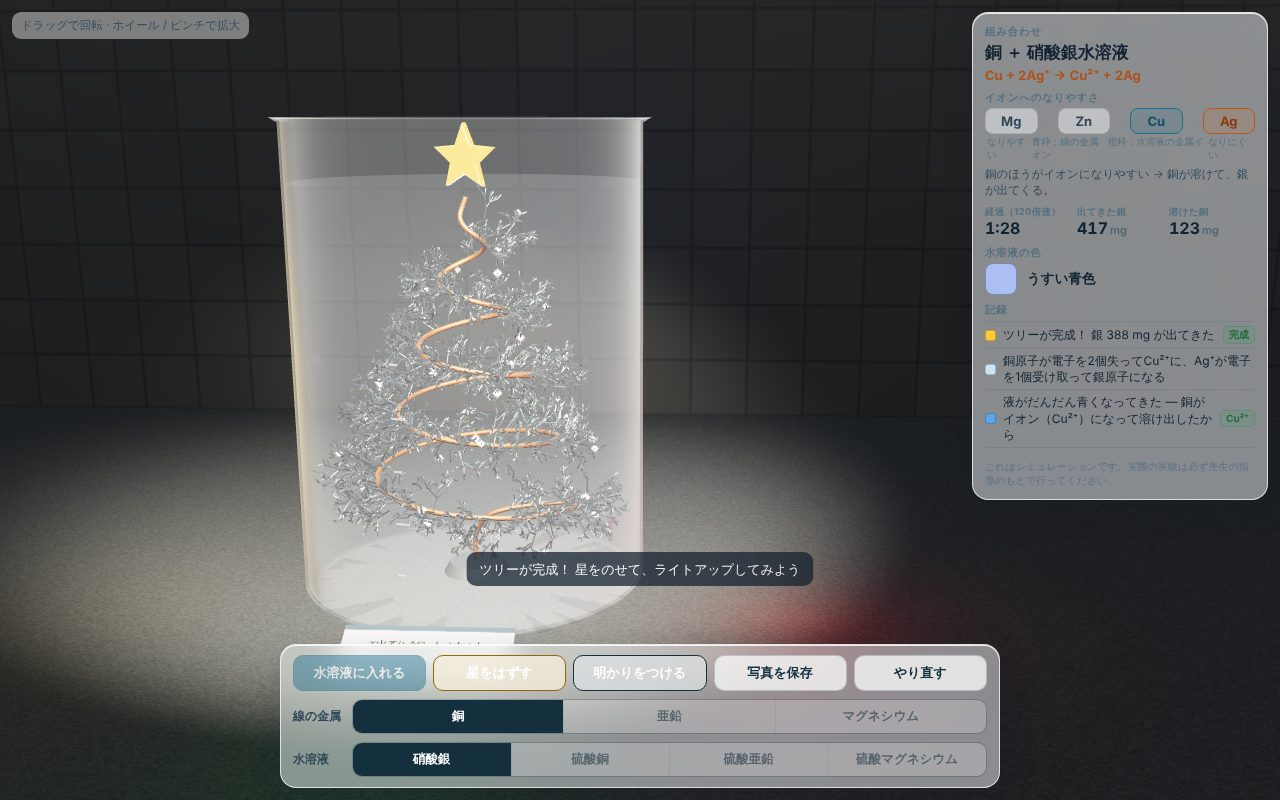
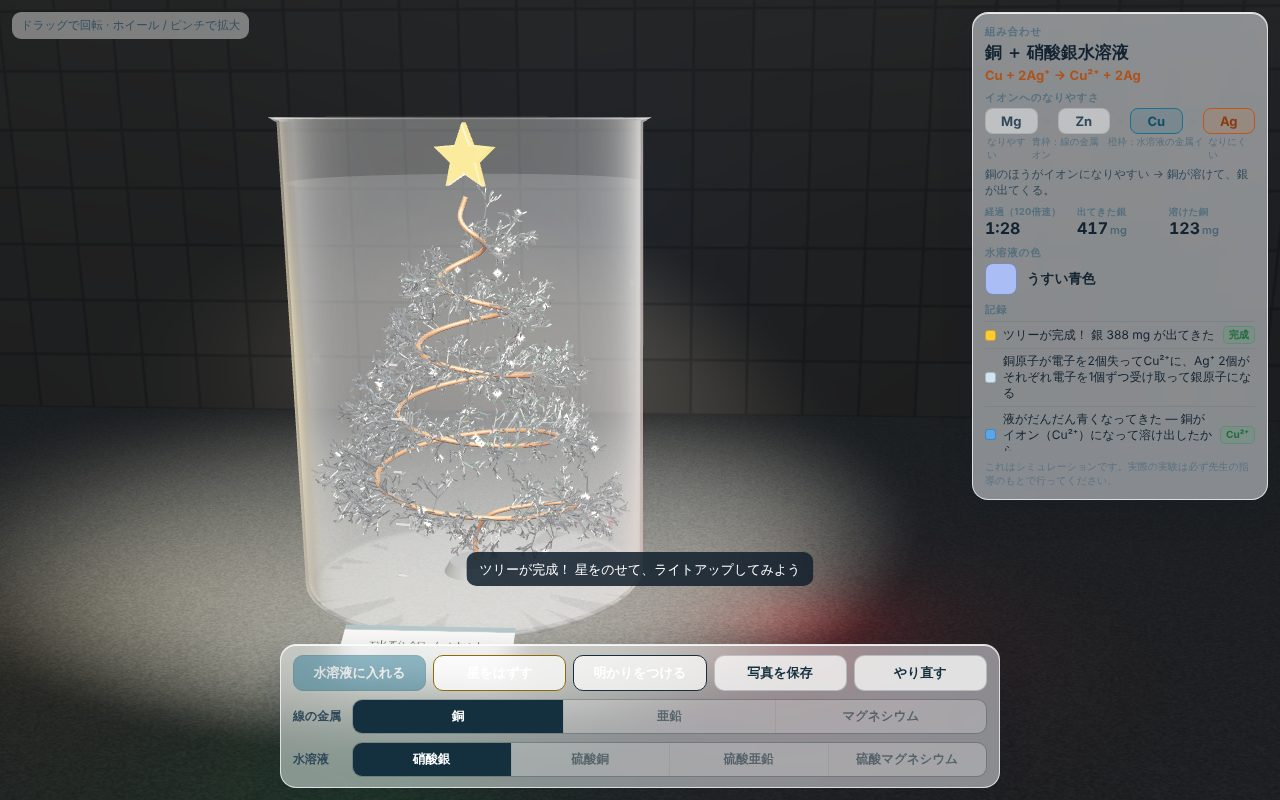
化学のクリスマスツリー：G3監修の指摘に対応
Claude-Session: https://claude.ai/code/session_01MKXMGBMQ75GPhwpfoT5RAP

diff --git a/apps/metal-tree-3d/index.html b/apps/metal-tree-3d/index.html
@@ -367,7 +367,7 @@ const BLOBS = [];
     }
   });
 }
-const blobMat = new THREE.MeshStandardMaterial({ color: 0x7a3a22, metalness: 0.45, roughness: 0.85 });
+const blobMat = new THREE.MeshStandardMaterial({ color: 0x6a311d, metalness: 0.45, roughness: 0.85 });
 const blobs = new THREE.InstancedMesh(new THREE.IcosahedronGeometry(1, 1), blobMat, BLOBS.length); blobs.count = 0; blobs.castShadow = true; treeG.add(blobs);
 // star
 const starShape = new THREE.Shape();
@@ -434,11 +434,12 @@ function sim(dt) {
     if (eq && !S.flags.e && S.simT > 900) {
       S.flags.e = true;
       const zs = METAL[S.sol].z;
-      logPush(`${METAL[S.wire].name}原子が電子を2個失って${METAL[S.wire].ion}に、${METAL[S.sol].ion}が電子を${zs}個受け取って${METAL[S.sol].name}原子になる`, '', '#cfe6f2');
+      const gain = zs === 1 ? `${METAL[S.sol].ion} 2個がそれぞれ電子を1個ずつ受け取って` : `${METAL[S.sol].ion}が電子を2個受け取って`;
+      logPush(`${METAL[S.wire].name}原子が電子を2個失って${METAL[S.wire].ion}に、${gain}${METAL[S.sol].name}原子になる`, '', '#cfe6f2');
     }
     if (eq && S.sol === 'Ag' && S.wire === 'Cu' && !S.flags.blue && conv() > 0.25) { S.flags.blue = true; logPush('液がだんだん青くなってきた — 銅がイオン（Cu²⁺）になって溶け出したから', 'Cu²⁺', '#5aa6e6'); }
     if (eq && S.sol === 'Cu' && !S.flags.fade && conv() > 0.5) { S.flags.fade = true; logPush('液の青色がうすくなってきた — 青い Cu²⁺ が減って銅になったから', 'Cu²⁺', '#9cc6e8'); }
-    if (eq && S.wire === 'Mg' && !S.flags.h2 && S.simT > 600) { S.flags.h2 = true; logPush('マグネシウムは水とも少し反応して、水素の泡も出ている', 'H₂', '#ffffff'); }
+    if (S.wire === 'Mg' && !S.flags.h2 && S.simT > 600) { S.flags.h2 = true; logPush(eq ? 'マグネシウムは水溶液中の水とも反応して、水素の泡が出る' : 'マグネシウムが水とわずかに反応して、小さな泡が少し出る（金属樹はできない）', 'H₂', '#ffffff'); }
     if (eq && !S.flags.done && conv() > 0.9) { S.flags.done = true; logPush(`ツリーが完成！ ${METAL[S.sol].name} ${Math.round(deposit())} mg が出てきた`, '完成', '#ffcc33'); toast('ツリーが完成！ 星をのせて、ライトアップしてみよう'); }
   }
   S.light += ((S.lightOn ? 1 : 0) - S.light) * (1 - Math.exp(-dt * 3));
@@ -477,7 +478,7 @@ function visuals(dt) {
         dummy.scale.set(wide * s.w, s.L * g * lenK, thin * s.w); dummy.updateMatrix();
         needles.setMatrixAt(n++, dummy.matrix);
       }
-      depMat.color.set(kind === 'Ag' ? (S.wire === 'Cu' ? 0xf2f5f7 : 0xc9cdd1) : 0x8a9096);
+      depMat.color.set(kind === 'Ag' ? (S.wire === 'Cu' ? 0xf2f5f7 : 0x9a9fa4) : 0x6c7176);
       depMat.roughness = kind === 'Ag' ? 0.14 : 0.45;
     }
     if (kind === 'Cu') {
@@ -504,7 +505,7 @@ function visuals(dt) {
   wireMat.color.set(WIRE_COL[S.wire]);
   // magnesium bubbles
   let used = 0;
-  const rate = eq && S.wire === 'Mg' && S.drop >= 1 ? 30 * (0.3 + 0.7 * (S.ion / ION0)) : 0;
+  const rate = S.wire === 'Mg' && S.drop >= 1 ? (eq ? 40 * (0.3 + 0.7 * (S.ion / ION0)) : 3) : 0;
   S.bAcc = Math.min(3, (S.bAcc || 0) + rate * dt);
   for (const b of bub) {
     if (b.on) { b.y += b.v * dt; if (b.y > LIQ - 0.1) b.on = false; }
@@ -579,7 +580,7 @@ function insert() {
   if (S.inBeaker) return;
   S.inBeaker = true;
   logPush(`${WIRE_NAME[S.wire]}のツリーを${SOLN[S.sol]}に入れた`, '', '#7fb7d6');
-  if (S.sol === 'Ag' && !S.flags.agNote) { S.flags.agNote = true; logPush('※ 実際の硝酸銀は皮膚につくと黒くなる薬品。先生が扱います', '', '#c8d0d6'); }
+  if (S.sol === 'Ag' && !S.flags.agNote) { S.flags.agNote = true; logPush('※ 実際の硝酸銀は皮膚につくと黒くなり、目に入ると危険な薬品。先生が扱います', '', '#c8d0d6'); }
   updateButtons();
 }
 function setWire(w) { if (S.inBeaker || !(w in WIRE_NAME)) return; S.wire = w; lastP = -1; drawCard(); updateButtons(); hudDirty = true; }

diff --git a/company/reviews/metal-tree-3d.md b/company/reviews/metal-tree-3d.md
@@ -39,3 +39,27 @@
 - 既存作品と重複なし ✔
 
 **G1 判定：PASS**
+
+## G2 品質保証（`node tools/qa.mjs apps/metal-tree-3d`）
+- 1回目：31/32（スマホでボタン5つが横にはみ出す）→ スマホでは2段に折り返すよう修正
+- **最終：32/32 PASS**（銀樹の成長、組み合わせの固定、銀：銅＝3.39、銀 431 mg、液が青くなる、イオンの式、写真の生成、反応しない組み合わせ、同じ金属、亜鉛＋硫酸銅で銅が出て青がうすくなる、マグネシウムの泡）
+- 目視確認で修正
+  - 最初はツリーが画面の外にあった → 実験台の上に置き、持ち上げてビーカーに沈める動きにした
+  - 3D の液が青く見えない → 青を濃く
+  - ライトアップが暗くならない・キラキラが見えない・液が白く光る → 照明・環境光を落とし、キラキラを強く、液を薄く
+  - 銅の析出物がオレンジのポップコーン状 → 暗い赤褐色の細かい粒に
+
+## G3 独立化学監修（サブエージェント）
+| 区分 | 指摘 | 対応 |
+|---|---|---|
+| 重大 | なし | — |
+| 軽微 | マグネシウムの泡は「少し」ではない／硫酸マグネシウムでは説明と食い違う | 「水溶液中の水とも反応して、水素の泡が出る」に修正。硫酸マグネシウムでは小さな泡を少しだけ出し、「金属樹はできない」と表示 |
+| 軽微 | 速さを電位差で決めるモデル | **演出上の仮定**として記録（下記）。画面には「差が大きいほど速い」とは書かない |
+| 軽微 | 電子の受け渡しで Ag⁺ の係数 2 が伝わらない | 「Ag⁺ 2個がそれぞれ電子を1個ずつ受け取って」に修正 |
+| 軽微 | 硝酸銀の注意に「目に入ると危険」 | 追加 |
+| 軽微 | 亜鉛・マグネシウムから出る金属はもう少し暗い | 亜鉛の析出物と、亜鉛・マグネシウムから出る銀を暗く、銅もやや暗く |
+
+**演出上の仮定**：反応の速さ k ∝ √ΔE は見た目のテンポのための仮定。実際の速さは表面の状態・拡散・濃度で決まる。
+
+正しいと確認された点：全組み合わせのイオンの式（原子数・電荷）、反応する／しないの判定、標準電極電位とモル質量、析出量と溶解量（銀：銅＝3.4）、液の色の変化（銅＋硝酸銀はうすい青止まり、硫酸銅は退色）、イオンへのなりやすさの用語、析出物の見た目、安全面。
+**G3 判定：PASS（全指摘に対応済み）**

diff --git a/company/backlog.md b/company/backlog.md
@@ -15,7 +15,7 @@
 |---|---|---|---|---|---|
 | 1 | baking-soda-decomposition-3d | 炭酸水素ナトリウムの熱分解 | 中2 | 口を上げると水が逆流して試験管が割れる／火を先に消すと石灰水が逆流 | **公開設定待ち（Pages）** |
 | 2 | water-electrolysis-3d | 水の電気分解（ホフマン型） | 中2 | 2：1でたまる・マッチで「ポン」／純粋な水では流れない・活栓開けっぱなし・つなぎ方逆 | **社長却下（2026-11-23）— 面白さが足りない。公開しない** |
-| 3 | metal-tree-3d | 化学のクリスマスツリー（金属樹） | 中3 | 銀の結晶がツリーを覆い液が青くなる／育たない組み合わせ／星・ライトアップ・写真保存 | **G1・G2 PASS／G3 監修中** |
+| 3 | metal-tree-3d | 化学のクリスマスツリー（金属樹） | 中3 | 銀の結晶がツリーを覆い液が青くなる／育たない組み合わせ／星・ライトアップ・写真保存 | **G1〜G3 PASS／撮影中** |
 
 ## 候補（優先順）
 2. 酸化銅の還元（炭素）— 黒→赤、ピンチコックを閉める理由
